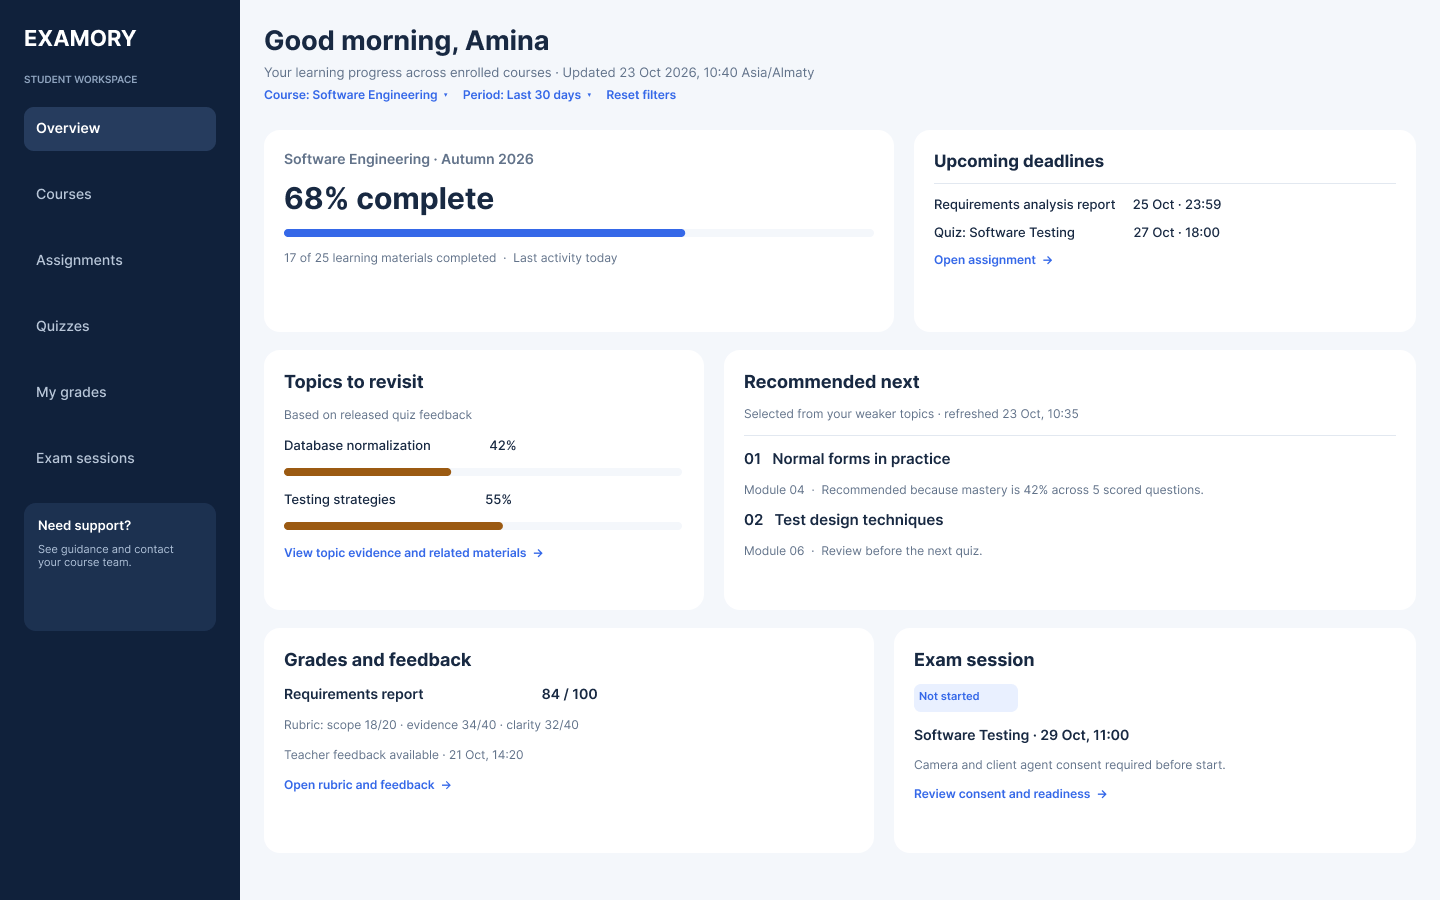
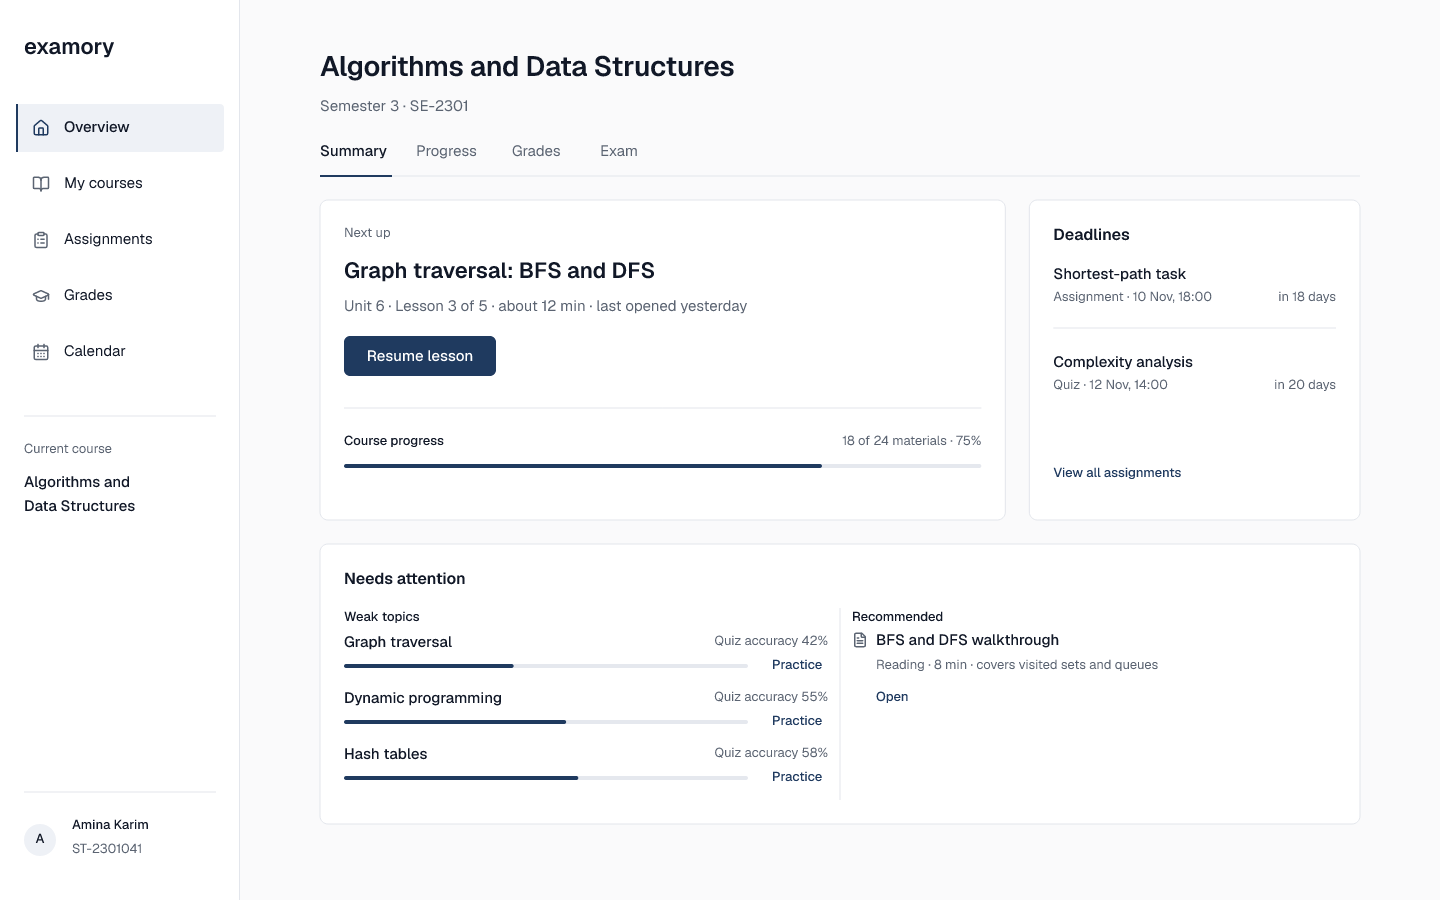
LMS-23: refine student dashboard for desktop and mobile

diff --git a/docs/04_uml/prototypes/README.md b/docs/04_uml/prototypes/README.md
@@ -1,12 +1,28 @@
 # Examory UX mockups (LMS-23)
 
-The [editable Figma file](https://www.figma.com/design/pVvqrcp7g2E0mAeFVAEz7X) contains four desktop mockups for the key Examory scenarios. The screens use synthetic names and results and follow [the dashboard specification](dashboards_spec.md) and the [v0.2 event contract](../../03_architecture/events.md).
+The [Figma file](https://www.figma.com/design/pVvqrcp7g2E0mAeFVAEz7X) contains the earlier four desktop screens. The latest student revision below follows the 23 October 2026 brief: a restrained course Summary focused on the next lesson, deadlines and weak topics, with a 375 px mobile layout. It uses fictional learning data for **Algorithms and Data Structures**.
 
-| Screen | Figma frame | PNG export | Scenario |
+## Latest student revision
+
+These PNGs were rendered locally from the accompanying SVGs. **They are not Figma exports and are not yet synced to the Figma file**: MCP tool access is currently quota-limited, and the available browser account has view access. The SVGs retain text and vector shapes; use Geist when editing them. Native Figma components and Auto Layout still require a Figma editing session.
+
+| Artifact | PNG | Editable SVG | Dimensions |
 |---|---|---|---|
-| Student dashboard | [Open frame](https://www.figma.com/design/pVvqrcp7g2E0mAeFVAEz7X?node-id=3-2) | [student_dashboard.png](student_dashboard.png) | Review progress, weak topics, recommendations, deadlines, grades, and exam readiness. |
-| Teacher dashboard | [Open frame](https://www.figma.com/design/pVvqrcp7g2E0mAeFVAEz7X?node-id=3-3) | [teacher_dashboard.png](teacher_dashboard.png) | See group performance, learning-support needs, pending risk reviews, rubric suggestions, and variant comparison. |
-| Risk review | [Open frame](https://www.figma.com/design/pVvqrcp7g2E0mAeFVAEz7X?node-id=3-4) | [risk_review.png](risk_review.png) | Inspect evidence and enter a rationale before confirming or dismissing a signal. The decision is a human review, not a grade or sanction. |
-| Proctoring consent | [Open frame](https://www.figma.com/design/pVvqrcp7g2E0mAeFVAEz7X?node-id=3-5) | [proctoring_consent.png](proctoring_consent.png) | Read the monitoring disclosure, make separate webcam and client-agent choices, or request an alternative. |
+| Student desktop Summary | [Preview](student_dashboard.png) | [SVG](student_dashboard.svg) | 1440 × 900 |
+| Student mobile Summary | [Preview](student_dashboard_mobile.png) | [SVG](student_dashboard_mobile.svg) | 375 × 1512 |
+| Hover, focus-visible and disabled states | [Preview](student_interaction_states.png) | [SVG](student_interaction_states.svg) | 1040 × 568 |
 
-The PNGs are 1440 × 900 exports of the Figma frames. They are static review artifacts; controls illustrate intended interactions and states. The consent screen shows both options unchecked and the continue action disabled. The risk review screen labels the score as a relative ranking, and its buttons correspond to `risk.reviewed` decisions `confirmed` and `dismissed`.
+See [student design tokens](student_design_tokens.md) for colors, type, spacing, radii, grid and interaction specifications. Grades and exam details are reached through tabs; Summary presents Next up, Deadlines and Needs attention. Dates use local Kazakhstan time without a location selector. Static mockups specify intended interaction; they do not demonstrate working accessibility behavior.
+
+## Earlier screens
+
+These assets remain from the earlier iteration and have not received the latest student visual treatment. Use [dashboards_spec.md](dashboards_spec.md) for functional requirements and [events.md](../../03_architecture/events.md) for event semantics.
+
+| Screen | Figma frame | Earlier PNG |
+|---|---|---|
+| Student dashboard before this revision | [Open frame](https://www.figma.com/design/pVvqrcp7g2E0mAeFVAEz7X?node-id=3-2) | Replaced by the local Summary preview above |
+| Teacher dashboard | [Open frame](https://www.figma.com/design/pVvqrcp7g2E0mAeFVAEz7X?node-id=3-3) | [teacher_dashboard.png](teacher_dashboard.png) |
+| Risk review | [Open frame](https://www.figma.com/design/pVvqrcp7g2E0mAeFVAEz7X?node-id=3-4) | [risk_review.png](risk_review.png) |
+| Proctoring consent | [Open frame](https://www.figma.com/design/pVvqrcp7g2E0mAeFVAEz7X?node-id=3-5) | [proctoring_consent.png](proctoring_consent.png) |
+
+The three earlier PNGs are 1440 × 900. Risk review remains a human decision, separate from grading or sanctions; buttons correspond to `risk.reviewed` decisions `confirmed` and `dismissed`. The consent mockup presents separate webcam and agent choices.

diff --git a/docs/04_uml/prototypes/student_design_tokens.md b/docs/04_uml/prototypes/student_design_tokens.md
@@ -1,0 +1,33 @@
+# Student dashboard — design tokens
+
+Desktop: **1440 × 900 px**. Mobile: **375 × 1512 px**. These are static design mockups rendered locally; they have not been applied to the Figma file.
+
+| Color token | Value | Use |
+|---|---|---|
+| Page | `#FAFAFB` | Page background |
+| Surface | `#FFFFFF` | Sidebar, top menu and cards |
+| Text | `#111827` | Titles, body and active tabs |
+| Secondary | `#5B6472` | Metadata and inactive labels |
+| Accent | `#1F3A5F` | Actions, progress and selection indicators |
+| Accent hover | `#182E4C` | Hovered primary action |
+| Border | `#E3E6EC` | 1 px borders and hairlines |
+| Track | `#E5E8EE` | Progress track |
+| Selected | `#EEF1F6` | Active navigation and neutral control states |
+| Warning | `#B45309` | Relative deadline text only when less than 72 hours remain |
+
+**Typography:** [Geist](https://vercel.com/font), weights **400 / 500 / 600**. Scale **28 / 22 / 16 / 15 / 13 px**: H1 28/600 with −0.01em tracking; lesson 22/600; section title 16/600; body 15/400 with 1.5 line height; metadata and links 13 px. Use tabular figures for dates, percentages and counts. No text lighter than Secondary. Secondary on white has approximately 6:1 contrast; white on Accent exceeds 11:1.
+
+**Layout:** 240 px desktop sidebar; main content max-width 1040 px, centered in the remaining 1200 px. Twelve columns with 24 px gutters. Next up spans eight columns, Deadlines four, both 320 px high. Needs attention spans the full width and uses two internal columns. Spacing tokens: **8 / 16 / 24 / 32 / 48 px**. Cards: 24 px padding, 1 px border, 8 px radius, no shadow. Buttons: 6 px radius. Progress: 4 px high, 2 px radius. Lucide icons: 16–18 px, 1.5 px stroke.
+
+**Mobile:** 16 px page margins, 343 px content width, 24 px card padding. Top menu replaces the sidebar; account and navigation belong in that menu. Stack Next up → Deadlines → Needs attention; stack Weak topics above Recommended. Buttons, tabs, menu and text-link hit areas are **at least 48 × 48 px** (the text remains visually compact). Preserve the top-to-bottom reading order and allow page scrolling.
+
+| Component | Hover | Focus-visible | Disabled |
+|---|---|---|---|
+| Navigation | Neutral background; preserve selected indicator | 2 px Accent outline, 2 px offset | Secondary label/icon; no activation |
+| Tabs | Neutral Selected background; preserve active underline | 2 px Accent outline, 2 px offset | Secondary text; no activation |
+| Primary button | Accent hover background | 2 px Accent outline, 2 px offset | Selected background, Secondary text; no activation |
+| Text links | Underline in Accent | 2 px Accent outline, 2 px offset | Secondary text, no underline or activation |
+
+The state sheet shows independent examples; focus does not imply selection. Disabled controls are excluded from the keyboard sequence. The static mockups specify intended behavior; they do not demonstrate working keyboard or touch interaction.
+
+Sample data is fictional. Relative deadlines use **23 October 2026** as the reference date: 10 November is in 18 days and 12 November is in 20 days. Times are local Kazakhstan time (`Asia/Almaty`), without a location or timezone selector. Grades and exam details remain reachable through their tabs, keeping Summary focused on the next action, deadlines and learning support.
